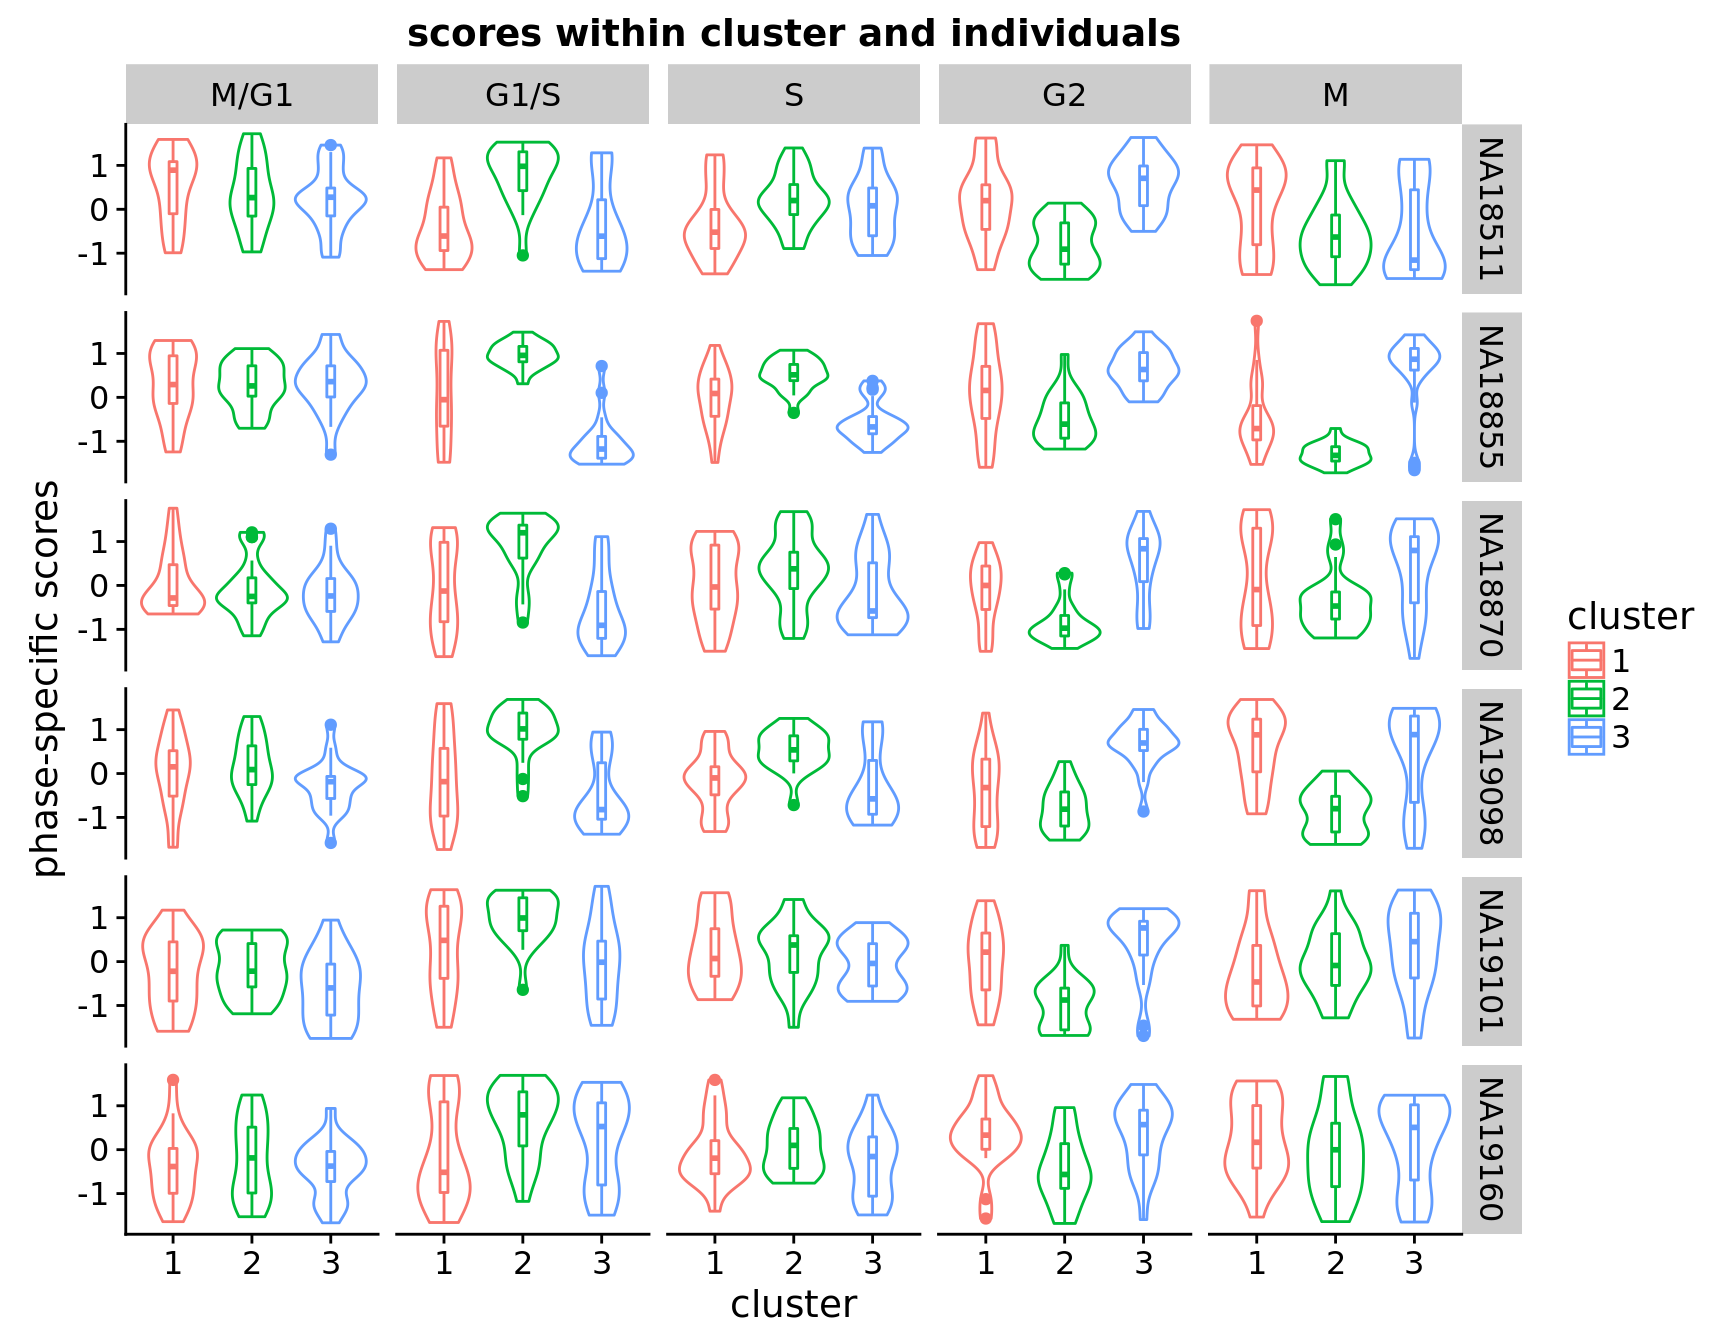
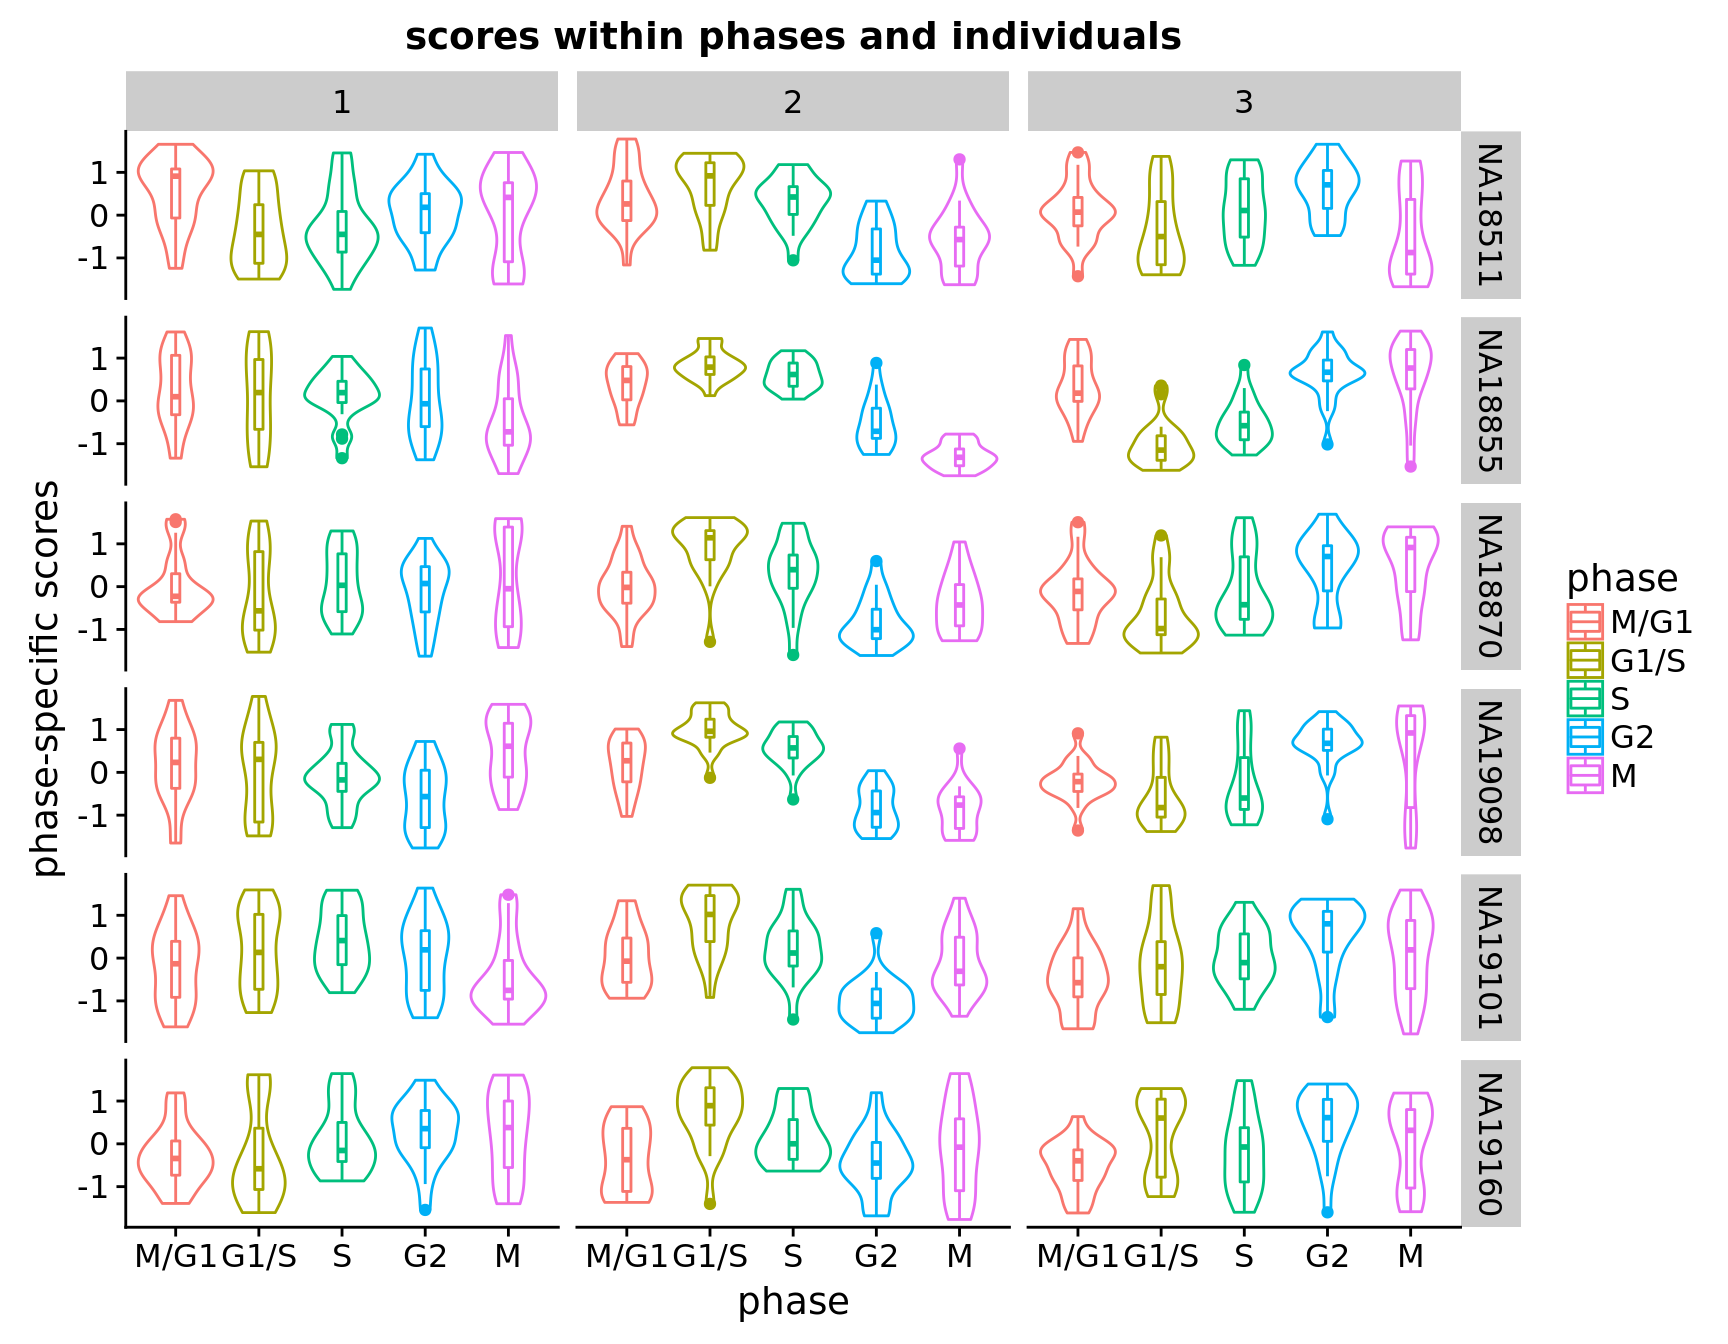
Build site.

Changed region(s): [[0.0312, 0.0, 0.875, 1.0], [0.0625, 0.25, 0.3125, 0.3438], [0.9062, 0.4062, 0.9688, 0.5938]]

diff --git a/docs/images-goldstandards.html b/docs/images-goldstandards.html
@@ -319,17 +319,17 @@ div.section {
 shared across the workflowr files. -->
 <!-- Update knitr chunk options -->
 <!-- Insert the date the file was last updated -->
-<p><strong>Last updated:</strong> 2018-01-31</p>
+<p><strong>Last updated:</strong> 2018-02-01</p>
 <!-- Insert the code version (Git commit SHA1) if Git repository exists and R
  package git2r is installed -->
-<p><strong>Code version:</strong> a0dc2ce</p>
+<p><strong>Code version:</strong> 2e1a616</p>
 <hr />
 <div id="overviewresults" class="section level2">
 <h2>Overview/Results</h2>
 <ol style="list-style-type: decimal">
 <li><p>The goal here is to assess the expression profiles of samples within the assigned clusters based on FUCCI measures (<a href="https://jdblischak.github.io/fucci-seq/images-subset-silhouette.html">see here for details</a>).</p></li>
-<li><p>Results show somewhat variable patterns across the assigned clusters (within each individual).</p></li>
-<li><p>Note that the genes used for the analysis were previously identified as “variable” or “cell cycle regulating” genes in <a href="http://dx.doi.org/10.1016/j.cell.2015.05.002">Macosko et al. 2015</a>. Applying the 544 genes in their results, we found 230 genes identified as “variable” in expression profiles along cell cycle phases.</p></li>
+<li><p>Results from within individaul analysis show that for cluster 3, the scores peak at G2, and for cluster 2, scores peak at G1/S. However, for cluster 1, the peaks are variable across individuals. For example, NA18870, NA19160 and NA19101 peaks at M/G1, while NA18511 peaks at S.</p></li>
+<li><p>Note that the genes used for the analysis were previously identified as “variable” or “cell cycle regulating” genes in <a href="http://dx.doi.org/10.1016/j.cell.2015.05.002">Macosko et al. 2015</a>. Applying the 544 genes in their results, we found 200 to 300 genes identified as “variable” in expression profiles along cell cycle phases. (NA18855 219 cells, NA18870 198 cells, NA19098 165 cells, NA19101 255 cells, NA19160 314 cells, NA18511 239 cells)</p></li>
 <li><p>For validity of the phase scores, we further apply the same method to data in <a href="doi:10.1038/nmeth.3549">Leng et al. 2015</a>, which have been previously scored for cell cycle phases also using FUCCI measurse.</p></li>
 </ol>
 <hr />
@@ -365,8 +365,11 @@ cc_genes &lt;- cellcycle[which(cellcycle$ensembl %in% rownames(log2cpm_cc)),]</c
                                chip_id))</code></pre>
 <p>Load best subset. <code>si_pam.rda</code> contains two objects: <code>si_pam_25</code> (top 25 samples within clusters and individuals) and <code>si_pam_long</code> (all sample information on silhouette index).</p>
 <pre class="r"><code>load(file = &quot;../output/images-subset-silhouette.Rmd/si_pam.rda&quot;)</code></pre>
-<p>Combine sample phoenotye labels with the silhouette sample top 25.</p>
-<pre class="r"><code>si_pam_25$molecules &lt;- pdata$molecules[match(si_pam_25$unique_id, rownames(pdata))]</code></pre>
+<p>subset to the best samples</p>
+<pre class="r"><code>log2cpm_cc_top &lt;- log2cpm_cc[, colnames(log2cpm) %in% unique(si_pam_25$unique_id)]
+pdata_top &lt;- pdata[rownames(pdata) %in% unique(si_pam_25$unique_id),]
+all.equal(colnames(log2cpm_cc_top), rownames(pdata_top))</code></pre>
+<pre><code>[1] TRUE</code></pre>
 <hr />
 </div>
 <div id="analysis" class="section level2">
@@ -379,20 +382,89 @@ cc_genes &lt;- cellcycle[which(cellcycle$ensembl %in% rownames(log2cpm_cc)),]</c
 <li><p>Compute phase-specific score: compute average expression across genes for each single cell samples.</p></li>
 <li><p>Standardize phase-specific scores in two-steps: within each phase, standardize (transforming to z-scores) scores across single cell samples, and then within each single cell sample, standardize scores across phase.</p></li>
 </ol>
-<pre class="r"><code>cc_scores &lt;- lapply(1:uniqueN(cc_genes$phase), function(i) {
+<hr />
+</div>
+<div id="within-individuals-assignment" class="section level2">
+<h2>Within individuals assignment</h2>
+<pre class="r"><code>chip_ids &lt;- unique(pdata_top$chip_id)
+all.equal(rownames(pdata_top), colnames(log2cpm_cc_top))</code></pre>
+<pre><code>[1] TRUE</code></pre>
+<pre class="r"><code>cc_scores_within &lt;- lapply(1:uniqueN(pdata_top$chip_id), function(j) {
+  id &lt;- chip_ids[j]
+  samples_to_select &lt;- rownames(pdata_top)[which(pdata_top$chip_id == id)]  
+  
+  cc_scores_list &lt;- lapply(1:uniqueN(cc_genes$phase), function(i) {
+    ph &lt;- unique(cc_genes$phase)[i]
+    df_sub &lt;- log2cpm_cc_top[rownames(log2cpm_cc_top) %in% cc_genes$ensembl[cc_genes$phase == ph], samples_to_select]
+    mn &lt;- colMeans(df_sub)
+    cc &lt;- cor(t(rbind(mn, df_sub)))
+    cc_mean &lt;- cc[-1,1]
+    genes_cc &lt;- names(cc_mean)[which(cc_mean &gt; .3)]
+    scores_raw &lt;- colMeans(df_sub[rownames(df_sub) %in% genes_cc,])
+    scores_z &lt;- scale(scores_raw)
+    return(list(scores_z=scores_z, ngenes =length(genes_cc)))
+  })
+  names(cc_scores_list) &lt;- unique(cc_genes$phase)
+  return(cc_scores_list)
+})
+names(cc_scores_within) &lt;- chip_ids
+
+ngenes_within &lt;- lapply(cc_scores_within, function(x) {
+  sapply(x, function(y) y[[2]])
+})
+ngenes &lt;- sapply(ngenes_within, function(x) sum(x))
+print(ngenes)</code></pre>
+<pre><code>NA18855 NA18870 NA19098 NA19101 NA19160 NA18511 
+    219     198     165     255     314     239 </code></pre>
+<pre class="r"><code>cc_scores &lt;- lapply(cc_scores_within, function(x) {
+  tmp &lt;- do.call(cbind, lapply(x, &quot;[[&quot;, 1))
+  colnames(tmp) &lt;- unique(cc_genes$phase)
+  return(tmp)
+})
+
+
+# standardize scores across phases
+cc_scores_z &lt;- lapply(cc_scores, function(x) {
+  tmp &lt;- t(apply(x, 1, scale)) 
+  colnames(tmp) &lt;- unique(cc_genes$phase)
+  tmp &lt;- as.data.frame(tmp)
+  return(tmp)
+})
+
+# convert data format from wide to long
+cc_scores_z_long &lt;- lapply(cc_scores_z, function(x) {
+  long &lt;- gather(x, key=phase, value=scores)
+  long$uniqe_id &lt;- rep(rownames(x), ncol(x))
+  long$chip_id &lt;- pdata_top$chip_id[match(long$uniqe_id, rownames(pdata_top))]
+  long$experiment &lt;- pdata_top$experiment[match(long$uniqe_id, rownames(pdata_top))]
+
+  # select gold standard set
+  long$cluster &lt;- si_pam_25$cluster[match(long$uniqe_id, si_pam_25$unique_id)]
+  
+  long$phase &lt;- factor(long$phase, levels=c(&quot;M/G1&quot;, &quot;G1/S&quot;, &quot;S&quot;, &quot;G2&quot;, &quot;M&quot;))
+  long$cluster &lt;- as.factor(long$cluster)
+  return(long)
+})</code></pre>
+<p><img src="figure/images-goldstandards.Rmd/within-individual-scores-1.png" width="864" style="display: block; margin: auto;" /></p>
+<hr />
+</div>
+<div id="across-individuals-assignment" class="section level2">
+<h2>Across individuals assignment</h2>
+<pre class="r"><code>cc_scores_list &lt;- lapply(1:uniqueN(cc_genes$phase), function(i) {
   ph &lt;- unique(cc_genes$phase)[i]
-  df_sub &lt;- log2cpm_cc[rownames(log2cpm_cc) %in% cc_genes$ensembl[cc_genes$phase == ph],]
+  df_sub &lt;- log2cpm_cc_top[rownames(log2cpm_cc_top) %in% cc_genes$ensembl[cc_genes$phase == ph],]
   mn &lt;- colMeans(df_sub)
   cc &lt;- cor(t(rbind(mn, df_sub)))
   cc_mean &lt;- cc[-1,1]
   genes_cc &lt;- names(cc_mean)[which(cc_mean &gt; .3)]
   scores_raw &lt;- colMeans(df_sub[rownames(df_sub) %in% genes_cc,])
   scores_z &lt;- scale(scores_raw)
-  return(scores_z)
+  return(list(scores_z=scores_z, ngenes =length(genes_cc)))
 })
-names(cc_scores) &lt;- unique(cc_genes$phase)
+names(cc_scores_list) &lt;- unique(cc_genes$phase)
 
-cc_scores &lt;- do.call(cbind, cc_scores)
+ngenes &lt;- sapply(cc_scores_list, &quot;[[&quot;, 2)
+cc_scores &lt;- do.call(cbind, lapply(cc_scores_list, &quot;[[&quot;, 1))
 colnames(cc_scores) &lt;- unique(cc_genes$phase)
 
 # standardize scores across phases
@@ -407,17 +479,14 @@ cc_scores_z_long$uniqe_id &lt;- rep(rownames(cc_scores_z), ncol(cc_scores_z))
 cc_scores_z_long$chip_id &lt;- pdata$chip_id[match(cc_scores_z_long$uniqe_id, rownames(pdata))]
 cc_scores_z_long$experiment &lt;- pdata$experiment[match(cc_scores_z_long$uniqe_id, rownames(pdata))]
 
-
 # select gold standard set
 cc_scores_z_long$cluster &lt;- si_pam_25$cluster[match(cc_scores_z_long$uniqe_id, si_pam_25$unique_id)]
 
-cc_scores_z_long_25 &lt;- cc_scores_z_long[!is.na(cc_scores_z_long$cluster),]
-
-cc_scores_z_long_25$phase &lt;- factor(cc_scores_z_long_25$phase, 
-                                    levels=c(&quot;M/G1&quot;, &quot;G1/S&quot;, &quot;S&quot;, &quot;G2&quot;, &quot;M&quot;))
-cc_scores_z_long_25$cluster &lt;- as.factor(cc_scores_z_long_25$cluster)</code></pre>
-<p><img src="figure/images-goldstandards.Rmd/unnamed-chunk-8-1.png" width="864" style="display: block; margin: auto;" /></p>
+cc_scores_z_long$phase &lt;- factor(cc_scores_z_long$phase, 
+                                  levels=c(&quot;M/G1&quot;, &quot;G1/S&quot;, &quot;S&quot;, &quot;G2&quot;, &quot;M&quot;))
+cc_scores_z_long$cluster &lt;- as.factor(cc_scores_z_long$cluster)</code></pre>
 <p><img src="figure/images-goldstandards.Rmd/unnamed-chunk-9-1.png" width="864" style="display: block; margin: auto;" /></p>
+<p><img src="figure/images-goldstandards.Rmd/unnamed-chunk-10-1.png" width="864" style="display: block; margin: auto;" /></p>
 <hr />
 </div>
 <div id="others" class="section level2">
@@ -429,14 +498,14 @@ ensg &lt;- cc_genes$ensembl[which(cc_genes$hgnc %in% hgnc)]
 tmp &lt;- log2cpm_cc[which(rownames(log2cpm_cc) %in% ensg),]
 tmp &lt;- data.frame(t(tmp))
 
-cc_scores_z_long_25$ENSG00000073111 &lt;- tmp$ENSG00000073111[match(cc_scores_z_long_25$uniqe_id, rownames(tmp))]
-cc_scores_z_long_25$ENSG00000076003 &lt;- tmp$ENSG00000076003[match(cc_scores_z_long_25$uniqe_id, rownames(tmp))]
-cc_scores_z_long_25$ENSG00000087586 &lt;- tmp$ENSG00000087586[match(cc_scores_z_long_25$uniqe_id, rownames(tmp))]
-cc_scores_z_long_25$ENSG00000076003 &lt;- tmp$ENSG00000076003[match(cc_scores_z_long_25$uniqe_id, rownames(tmp))]
-cc_scores_z_long_25$ENSG00000100297 &lt;- tmp$ENSG00000100297[match(cc_scores_z_long_25$uniqe_id, rownames(tmp))]
-cc_scores_z_long_25$ENSG00000157456 &lt;- tmp$ENSG00000157456[match(cc_scores_z_long_25$uniqe_id, rownames(tmp))]
-cc_scores_z_long_25$ENSG00000178999 &lt;- tmp$ENSG00000178999[match(cc_scores_z_long_25$uniqe_id, rownames(tmp))]</code></pre>
-<p><img src="figure/images-goldstandards.Rmd/unnamed-chunk-11-1.png" width="864" style="display: block; margin: auto;" /><img src="figure/images-goldstandards.Rmd/unnamed-chunk-11-2.png" width="864" style="display: block; margin: auto;" /></p>
+cc_scores_z_long$ENSG00000073111 &lt;- tmp$ENSG00000073111[match(cc_scores_z_long$uniqe_id, rownames(tmp))]
+cc_scores_z_long$ENSG00000076003 &lt;- tmp$ENSG00000076003[match(cc_scores_z_long$uniqe_id, rownames(tmp))]
+cc_scores_z_long$ENSG00000087586 &lt;- tmp$ENSG00000087586[match(cc_scores_z_long$uniqe_id, rownames(tmp))]
+cc_scores_z_long$ENSG00000076003 &lt;- tmp$ENSG00000076003[match(cc_scores_z_long$uniqe_id, rownames(tmp))]
+cc_scores_z_long$ENSG00000100297 &lt;- tmp$ENSG00000100297[match(cc_scores_z_long$uniqe_id, rownames(tmp))]
+cc_scores_z_long$ENSG00000157456 &lt;- tmp$ENSG00000157456[match(cc_scores_z_long$uniqe_id, rownames(tmp))]
+cc_scores_z_long$ENSG00000178999 &lt;- tmp$ENSG00000178999[match(cc_scores_z_long$uniqe_id, rownames(tmp))]</code></pre>
+<p><img src="figure/images-goldstandards.Rmd/unnamed-chunk-12-1.png" width="864" style="display: block; margin: auto;" /><img src="figure/images-goldstandards.Rmd/unnamed-chunk-12-2.png" width="864" style="display: block; margin: auto;" /></p>
 <hr />
 </div>
 <div id="session-information" class="section level2">
